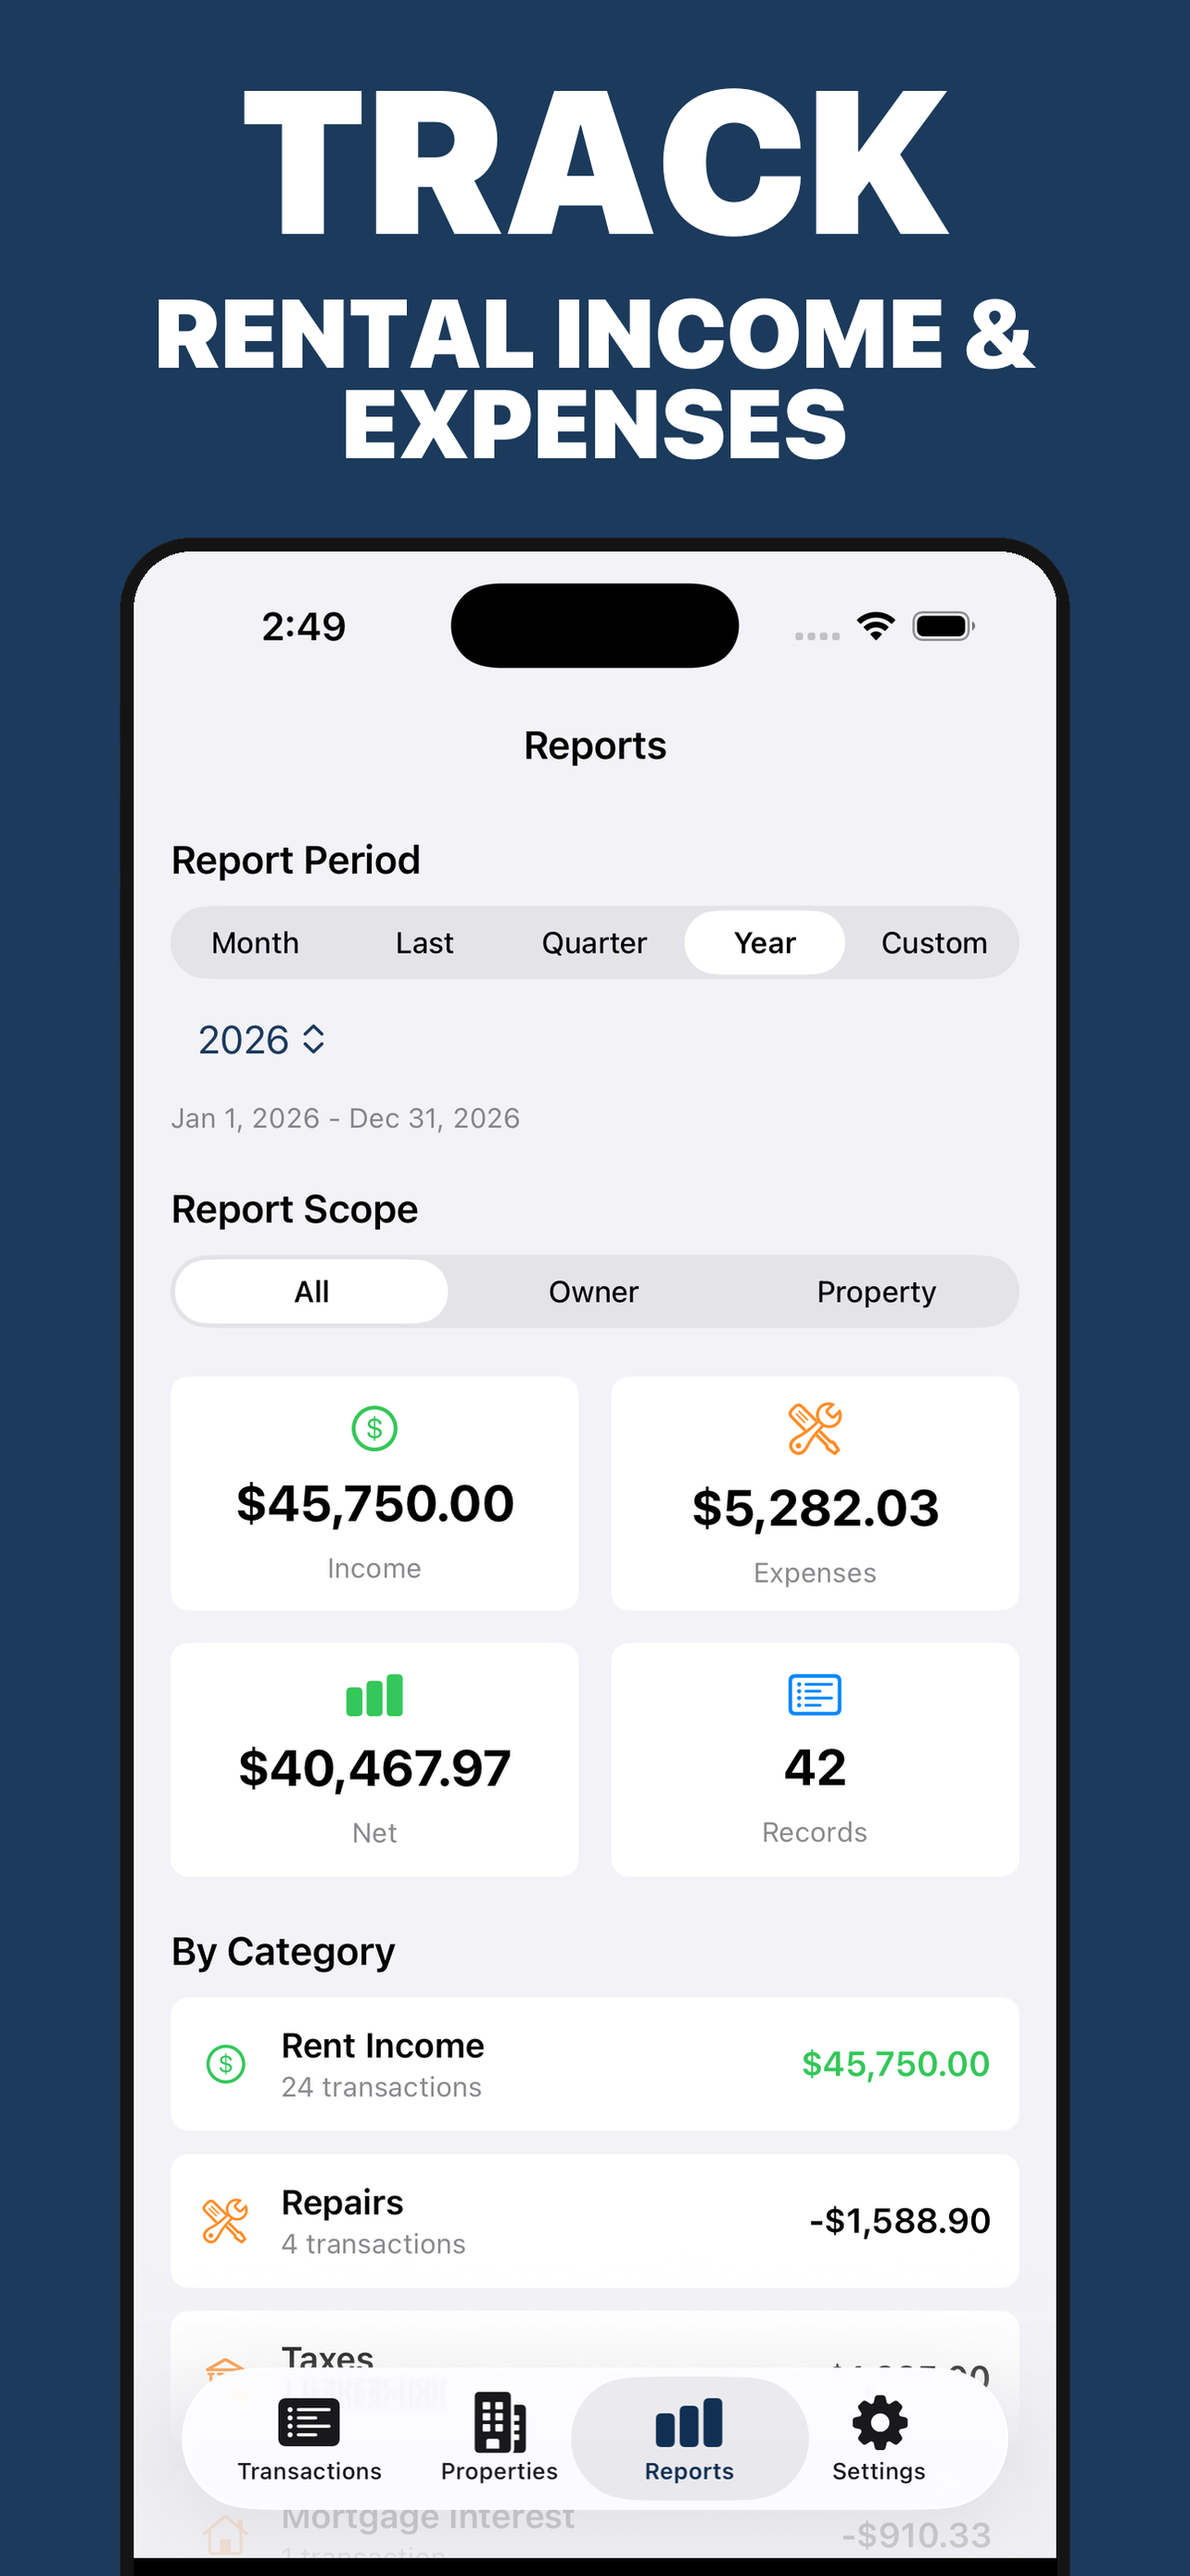
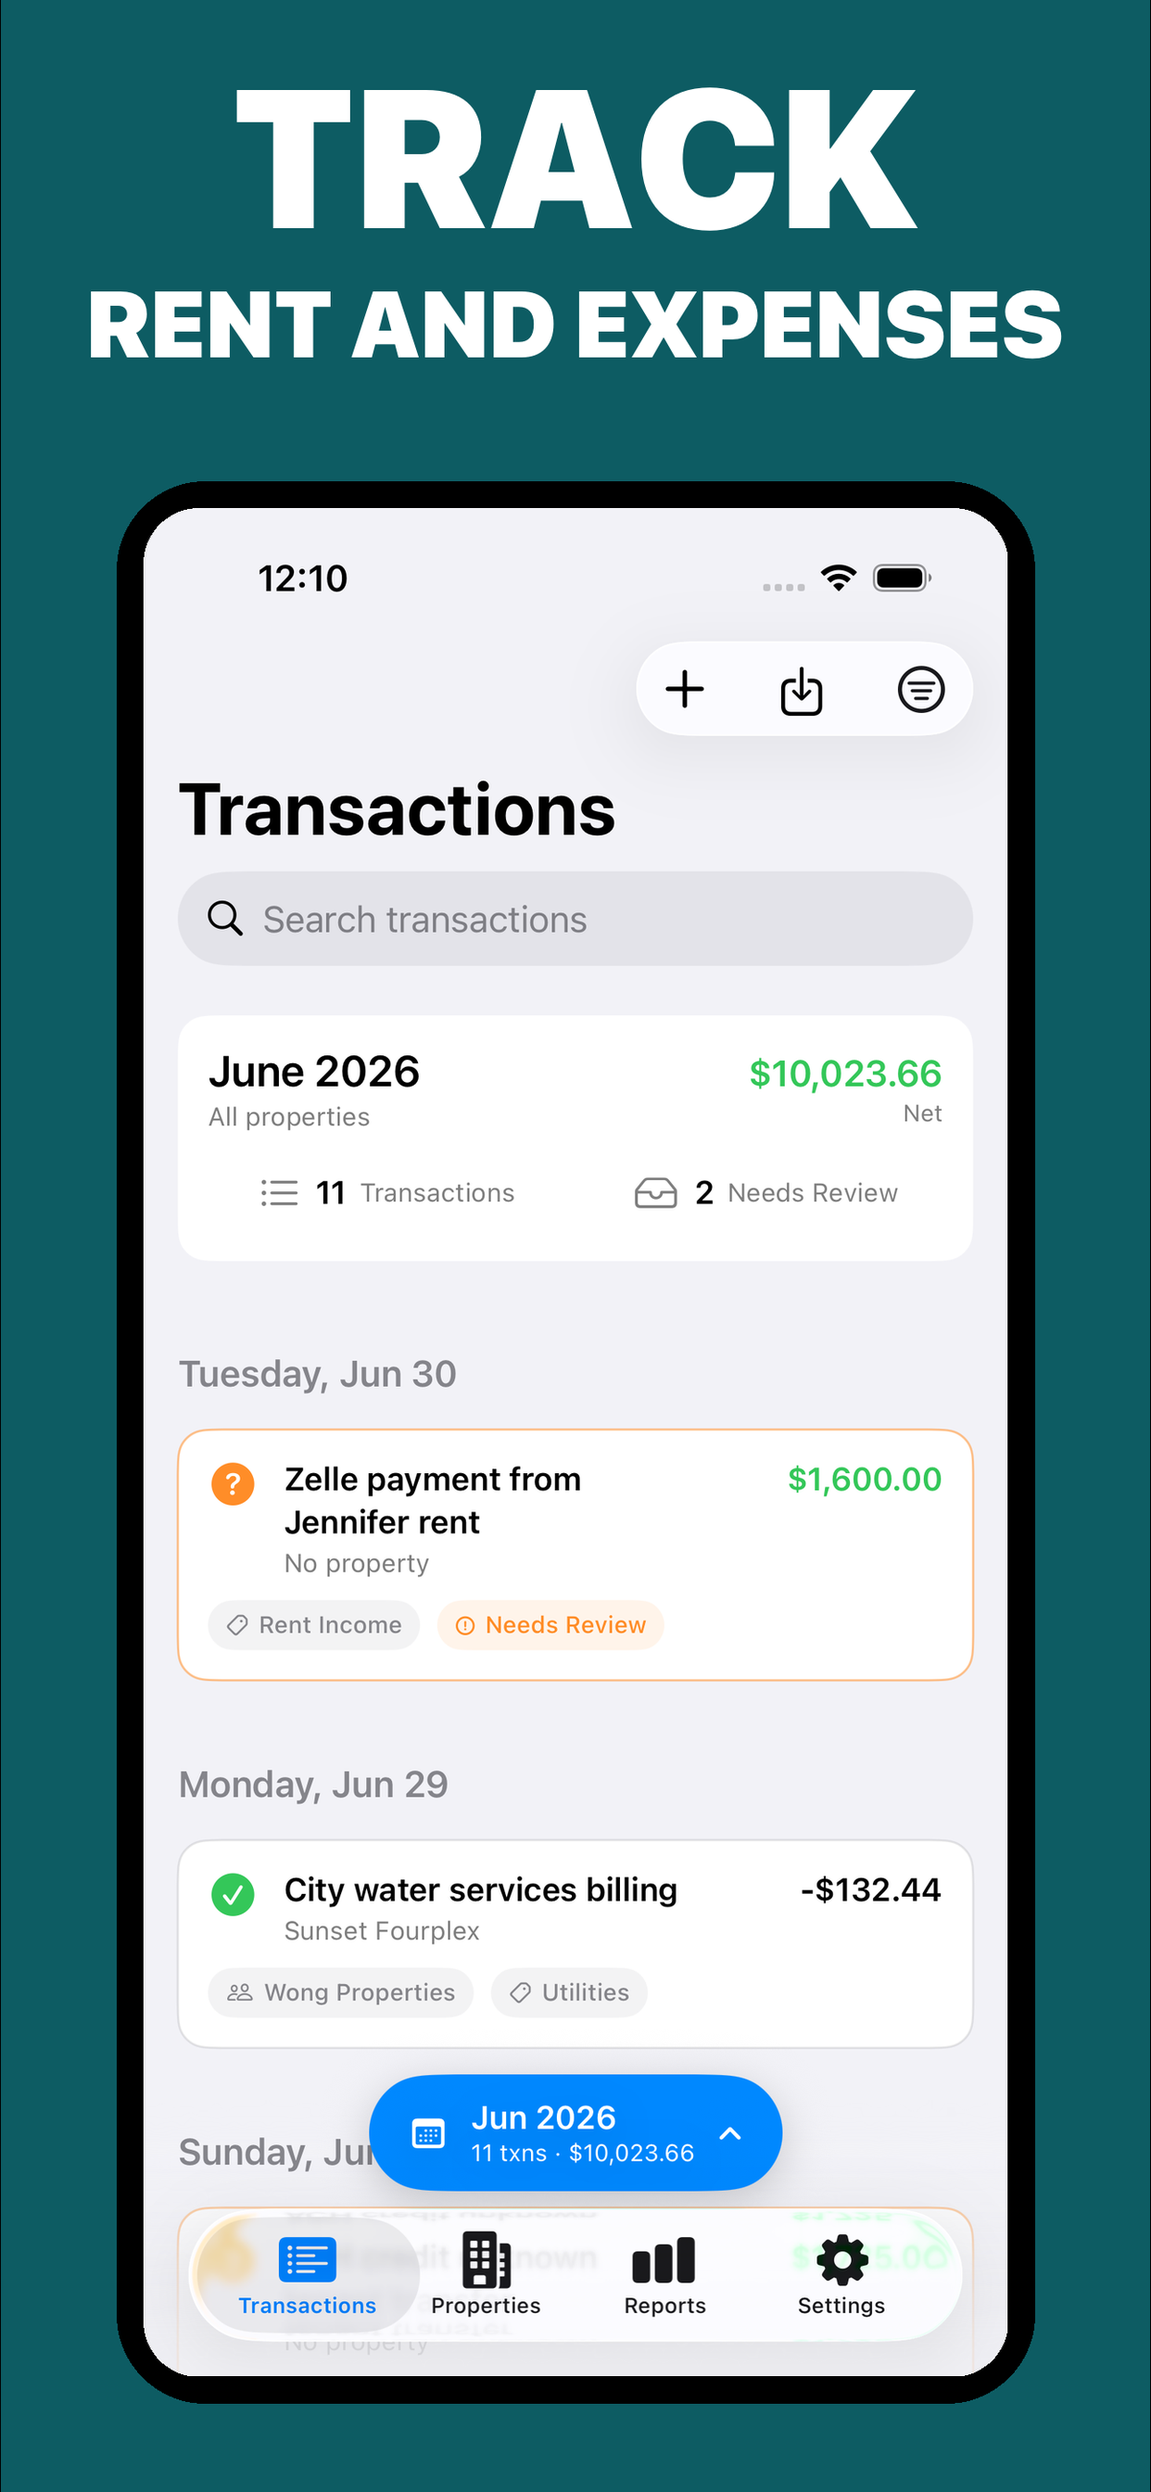
Refresh LandLedger landing page and App Store screenshots

diff --git a/docs/index.html b/docs/index.html
@@ -270,6 +270,7 @@
     .screen-card img {
       display: block;
       width: 100%;
+      height: auto;
       border-radius: 6px;
     }
     .screen-card h3 {
@@ -516,24 +517,24 @@
         </div>
         <div class="screens">
           <article class="screen-card">
-            <img src="assets/landledger-track.png" alt="LandLedger transactions screen">
-            <h3>Track monthly transactions</h3>
-            <p>Review each month by property.</p>
+            <img src="assets/landledger-track.png" alt="LandLedger showing rental income and expenses with blue app controls on a teal background" loading="lazy" width="1290" height="2796">
+            <h3>Track rent and expenses</h3>
+            <p>Review monthly transactions and net income.</p>
           </article>
           <article class="screen-card">
-            <img src="assets/landledger-match.png" alt="LandLedger matching screen">
-            <h3>Auto-assign transactions</h3>
-            <p>Match rent, property keywords, and mortgage aliases.</p>
+            <img src="assets/landledger-organize.png" alt="LandLedger properties organized by owner portfolio on a teal background" loading="lazy" width="1290" height="2796">
+            <h3>Organize records by property</h3>
+            <p>Keep rental properties grouped by owner.</p>
           </article>
           <article class="screen-card">
-            <img src="assets/landledger-review.png" alt="LandLedger property review screen">
-            <h3>Review only what needs attention</h3>
-            <p>Fix uncertain transactions in context.</p>
+            <img src="assets/landledger-reports.png" alt="LandLedger annual income, expenses, and net report on a teal background" loading="lazy" width="1290" height="2796">
+            <h3>Prepare reports for your accountant</h3>
+            <p>Review property totals before exporting a PDF.</p>
           </article>
           <article class="screen-card">
-            <img src="assets/landledger-reports.png" alt="LandLedger reports screen">
-            <h3>Export reports</h3>
-            <p>See totals before creating PDFs.</p>
+            <img src="assets/landledger-review.png" alt="LandLedger transaction review with property, tenant, and category choices on a teal background" loading="lazy" width="1290" height="2796">
+            <h3>Review uncertain matches</h3>
+            <p>Assign the right property, tenant, and category.</p>
           </article>
         </div>
       </div>

diff --git a/screenshots/compose_local.py b/screenshots/compose_local.py
@@ -1,0 +1,205 @@
+#!/usr/bin/env python3
+"""
+Project-local compositor for LandLedger App Store screenshots.
+
+Identical to the shared compose.py EXCEPT:
+  - Does NOT paint a synthetic Dynamic Island pill.
+    The simulator screenshot already contains the real pill; adding
+    another one on top produced a doubled cutout in the prior output.
+
+Do not modify the shared skill compose.py. Edit this file instead.
+"""
+
+import argparse
+import sys
+import os
+from PIL import Image, ImageDraw, ImageFont
+
+# ── Reference canvas (all constants tuned for this size) ────────────
+REF_W = 1290
+REF_H = 2796
+
+# ── Device template constants (tuned for REF_W/REF_H) ──────────────
+REF_DEVICE_W      = 1030
+REF_BEZEL         = 30
+REF_SCREEN_CORNER_R = 62
+REF_DEVICE_Y      = 540
+REF_MIN_TEXT_DEVICE_GAP = 40
+REF_VERB_SIZE_MAX = 220
+REF_VERB_SIZE_MIN = 130
+REF_DESC_SIZE     = 105
+REF_VERB_DESC_GAP = 18
+REF_DESC_LINE_GAP = 20
+REF_TEXT_TOP      = 150
+
+FONT_PATH = "/Library/Fonts/SF-Pro-Display-Black.otf"
+
+
+def hex_to_rgb(h):
+    h = h.lstrip("#")
+    return tuple(int(h[i:i+2], 16) for i in (0, 2, 4))
+
+
+def word_wrap(draw, text, font, max_w):
+    words = text.split()
+    lines, cur = [], ""
+    for w in words:
+        test = f"{cur} {w}".strip()
+        if draw.textlength(test, font=font) <= max_w:
+            cur = test
+        else:
+            if cur:
+                lines.append(cur)
+            cur = w
+    if cur:
+        lines.append(cur)
+    return lines
+
+
+def fit_font(text, max_w, size_max, size_min, font_path=None):
+    fp = font_path or FONT_PATH
+    dummy = ImageDraw.Draw(Image.new("RGBA", (1, 1)))
+    for size in range(size_max, size_min - 1, -4):
+        font = ImageFont.truetype(fp, size)
+        bbox = dummy.textbbox((0, 0), text, font=font)
+        if (bbox[2] - bbox[0]) <= max_w:
+            return font
+    return ImageFont.truetype(fp, size_min)
+
+
+def draw_centered(draw, y, text, font, canvas_w, max_w=None, line_gap=None):
+    _line_gap = line_gap if line_gap is not None else REF_DESC_LINE_GAP
+    lines = word_wrap(draw, text, font, max_w) if max_w else [text]
+    for line in lines:
+        bbox = draw.textbbox((0, 0), line, font=font)
+        h = bbox[3] - bbox[1]
+        draw.text((canvas_w // 2, y - bbox[1]), line, fill="white",
+                  font=font, anchor="mt")
+        y += h + _line_gap
+    return y
+
+
+def compose(bg_hex, verb, desc, screenshot_path, output_path,
+            font_path=None, canvas_w=None, canvas_h=None):
+    cw = canvas_w or REF_W
+    ch = canvas_h or REF_H
+
+    sx = cw / REF_W
+    sy = ch / REF_H
+    s  = min(sx, sy)
+
+    device_w  = int(REF_DEVICE_W * sx)
+    bezel     = int(REF_BEZEL * sx)
+    screen_w  = device_w - 2 * bezel
+    corner_r  = int(REF_SCREEN_CORNER_R * sx)
+    device_y  = int(REF_DEVICE_Y * sy)
+    min_gap   = int(REF_MIN_TEXT_DEVICE_GAP * sy)
+    verb_max  = int(REF_VERB_SIZE_MAX * s)
+    verb_min  = int(REF_VERB_SIZE_MIN * s)
+    desc_size = int(REF_DESC_SIZE * s)
+    vd_gap    = int(REF_VERB_DESC_GAP * sy)
+    line_gap  = int(REF_DESC_LINE_GAP * sy)
+    text_top  = int(REF_TEXT_TOP * sy)
+    max_text_w = int(cw * 0.92)
+
+    bg = hex_to_rgb(bg_hex)
+    fp = font_path or FONT_PATH
+
+    # 1. Canvas
+    canvas = Image.new("RGBA", (cw, ch), (*bg, 255))
+    draw   = ImageDraw.Draw(canvas)
+
+    # 2. Measure text height
+    verb_font = fit_font(verb.upper(), max_text_w, verb_max, verb_min, fp)
+    desc_font = ImageFont.truetype(fp, desc_size)
+
+    dummy = ImageDraw.Draw(Image.new("RGBA", (1, 1)))
+    m_y = 0
+    m_y = draw_centered(dummy, m_y, verb.upper(), verb_font, cw, line_gap=line_gap)
+    m_y += vd_gap
+    text_height = draw_centered(dummy, m_y, desc.upper(), desc_font, cw,
+                                max_w=max_text_w, line_gap=line_gap)
+
+    device_y = max(device_y, text_top + text_height + min_gap)
+
+    # 3. Draw text
+    y = text_top
+    y = draw_centered(draw, y, verb.upper(), verb_font, cw, line_gap=line_gap)
+    y += vd_gap
+    draw_centered(draw, y, desc.upper(), desc_font, cw,
+                  max_w=max_text_w, line_gap=line_gap)
+
+    device_x = (cw - device_w) // 2
+    screen_x = device_x + bezel
+
+    # 4. Load screenshot
+    shot = Image.open(screenshot_path).convert("RGBA")
+
+    bottom_pad   = int(100 * sy)
+    shot_scale   = screen_w / shot.width
+    shot_scaled_h = int(shot.height * shot_scale)
+    shot_resized = shot.resize((screen_w, shot_scaled_h), Image.LANCZOS)
+
+    device_h_full = bezel + shot_scaled_h + bezel
+    device_h      = min(device_h_full, ch - bottom_pad - device_y)
+
+    frame_device_y = ch - bottom_pad - device_h
+    device_y = max(device_y, frame_device_y)
+
+    screen_y = device_y + bezel
+    screen_h = device_h - 2 * bezel
+    shot_cropped = shot_resized.crop((0, 0, screen_w, screen_h))
+
+    # 5. Draw device shell (black rounded rect)
+    device_r   = int(corner_r * 1.6)
+    dev_layer  = Image.new("RGBA", canvas.size, (0, 0, 0, 0))
+    dev_mask   = Image.new("L",    canvas.size, 0)
+    ImageDraw.Draw(dev_mask).rounded_rectangle(
+        [device_x, device_y, device_x + device_w, device_y + device_h],
+        radius=device_r, fill=255,
+    )
+    black_canvas = Image.new("RGBA", canvas.size, (0, 0, 0, 255))
+    dev_layer = Image.composite(black_canvas, dev_layer, dev_mask)
+
+    # 6. Paste screenshot into screen viewport
+    screen_mask = Image.new("L", canvas.size, 0)
+    ImageDraw.Draw(screen_mask).rounded_rectangle(
+        [screen_x, screen_y, screen_x + screen_w, screen_y + screen_h],
+        radius=corner_r, fill=255,
+    )
+    dev_layer.paste(shot_cropped, (screen_x, screen_y),
+                    mask=screen_mask.crop(
+                        (screen_x, screen_y,
+                         screen_x + screen_w, screen_y + screen_h)))
+    dev_layer.putalpha(dev_mask)
+    canvas = Image.alpha_composite(canvas, dev_layer)
+
+    # ── NO synthetic Dynamic Island pill ────────────────────────────
+    # The simulator screenshot already contains the real pill.
+    # Painting another one here produced a doubled cutout. Omitted.
+
+    canvas.convert("RGB").save(output_path, "PNG")
+    print(f"✓ {output_path} ({cw}×{ch})")
+
+
+def main():
+    p = argparse.ArgumentParser(description="LandLedger local screenshot compositor")
+    p.add_argument("--bg",         required=True)
+    p.add_argument("--verb",       required=True)
+    p.add_argument("--desc",       required=True)
+    p.add_argument("--screenshot", required=True)
+    p.add_argument("--output",     required=True)
+    p.add_argument("--font",       default=None)
+    p.add_argument("--size",       default=None)
+    args = p.parse_args()
+
+    cw, ch = None, None
+    if args.size:
+        cw, ch = (int(x) for x in args.size.lower().split("x"))
+
+    compose(args.bg, args.verb, args.desc, args.screenshot, args.output,
+            font_path=args.font, canvas_w=cw, canvas_h=ch)
+
+
+if __name__ == "__main__":
+    main()
